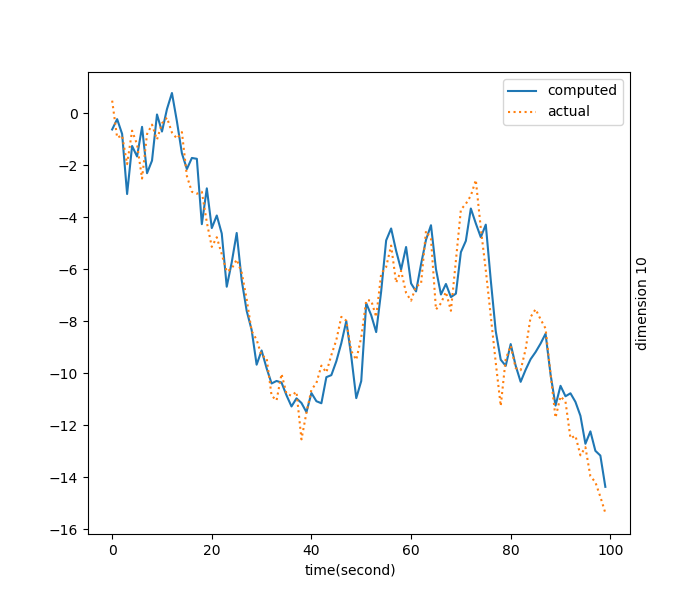
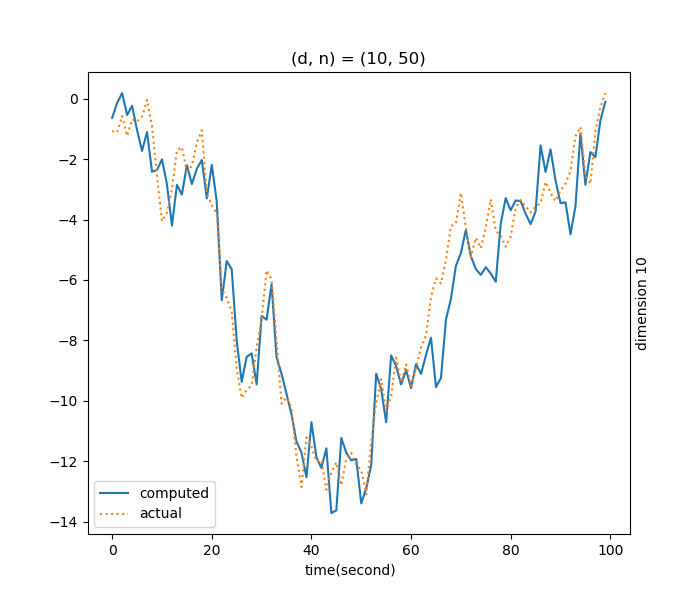
plot.py title argument in plot_signals added

diff --git a/python/plot.py b/python/plot.py
@@ -41,7 +41,7 @@ class SignalPlotter(object):
             self.dimension = dimension
 
     def plot_signals(self, labels = [], line_styles = ['solid', 'dotted', 'dashed'],  max_pts = 100, fig_size = (7,6), time_unit = 'second', coords_to_plot = [],\
-                    show = False, save = False, file_path = None):
+                    show = False, save = False, file_path = None, title = None):
         """
         Description:
             Plots observed and processed signals depending on the dimension of the problem
@@ -106,6 +106,9 @@ class SignalPlotter(object):
                     ax[i].yaxis.set_label_position('right')
                 ax[i].legend()
             fig.text(0.5, 0.05, 'time({})'.format(time_unit), ha='center', va='center')
+
+        if title is not None:
+            plt.title(title)
         if show is True:
             plt.show()
         if save is True:

diff --git a/python/qual.py b/python/qual.py
@@ -5,7 +5,7 @@ import simulate as sm
 import plot
 import matplotlib.pyplot as plt
 import utility as ut
-#np.random.seed(seed = 1)
+np.random.seed(seed = 16)
 rho = 1
 
 #@ut.timer
@@ -57,7 +57,7 @@ def collapse(n, d): # n -> number of particles, d -> dimension of the problem
     err = np.sqrt(np.dot(err, err))
     #print("Error mean  mean= {}, Error mean standard deviation = {}".format(err, evar))
     plot.SignalPlotter(signals = [ pf.computed_trajectory, hidden]).plot_signals( labels = ['computed', 'actual'], coords_to_plot = [9],\
-     save = True, file_path = '../images/imp2/{}_{}_{}.png'.format(d, n, 10))
+     save = True, file_path = '../images/imp2/{}_{}_{}.png'.format(d, n, 10), title = "(d, n) = ({}, {})".format(d, n))
     return np.max(pf.weights), err
 
 itr = 1

diff --git a/python/qipf.py b/python/qipf.py
@@ -5,7 +5,7 @@ import simulate as sm
 import plot
 import matplotlib.pyplot as plt
 import utility as ut
-#np.random.seed(seed = 1)
+np.random.seed(seed = 16694)
 rho = 1
 
 @ut.timer
@@ -59,8 +59,8 @@ def collapse(n, d): # n -> number of particles, d -> dimension of the problem
     return np.max(pf.weights)
 
 itr = 100
-for n in [100]:
-    for d in [10, 50, 100]:
+for n in [10]:
+    for d in [100]:
         max_w = []
         for i in range(itr):
             print('iteration = {}:'.format(i))
